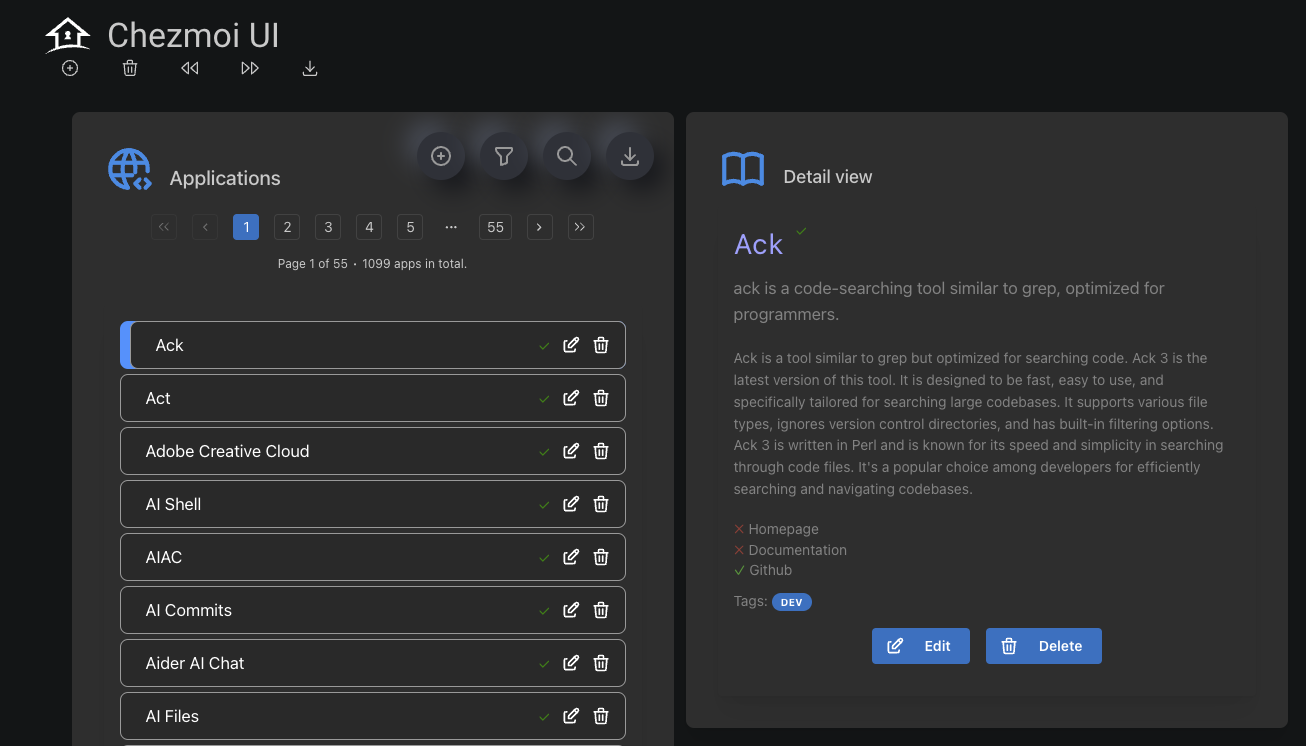
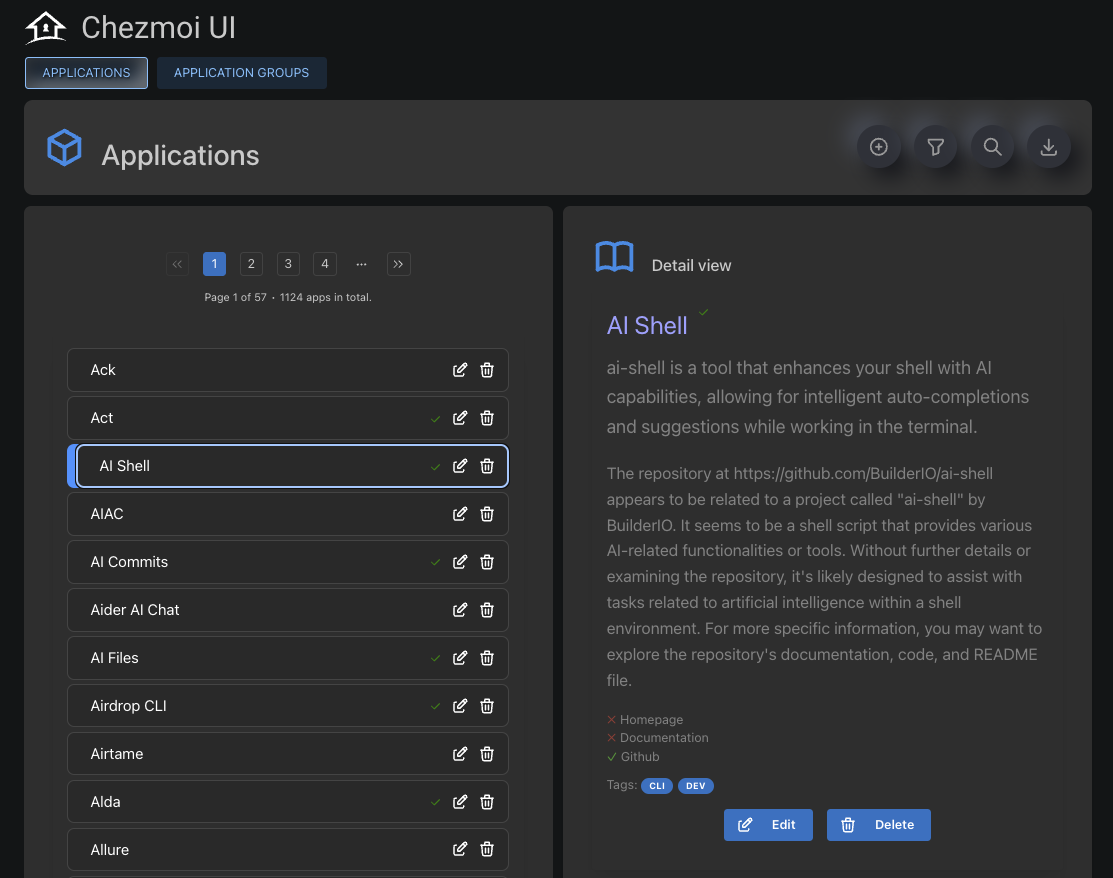
assets Update README screenshots wip

diff --git a/client/src/views/EditView/EditView.jsx b/client/src/views/EditView/EditView.jsx
@@ -35,7 +35,6 @@ const EditView = forwardRef(function EditView(props, ref) {
 			radius="10"
 			size="auto"
 			shadow="xl"
-			fullScreen
 			transitionProps={{ transition: "pop", duration: 200 }}
 		>
 			<Card style={{ backgroundColor: "#222" }}>

diff --git a/README.md b/README.md
@@ -92,28 +92,44 @@ It's up to you how you value the metadata though: Functionally there is no need 
 
 ## The UI
 
-After first starting Chezmoi UI, the backend takes a moment to seed the database, but it should be done by the time you've opened a browser. Opening `http://localhost:8000` you should see the below. Note the keyboard shortcuts listed in the right hand column - it's a good idea to learn them. A check mark in the list view means the item has been edited, giving a hint of the work left to do
+After first starting Chezmoi UI, the backend takes a moment to seed the database, but it should be done by the time you've opened a browser. Opening `http://localhost:8000` you should see the view below. Note the keyboard shortcuts listed in the right hand column - it's a good idea to learn them. A check mark in the list view means the item has been edited, giving a hint of the work left to do.
 
 ![](./assets/start.png)
 
-Selecting an app in the list, you should see the detail view. It shows the name, the short description and the longer description of the app. Iconography indicates if any of the homepage, Github and documentation URLs are missing, as well as the tags associated with the app.  Hitting the Edit button opens the edit view.
+
+Selecting an app in the list, you should see the detail view. It shows the name, the short description and the longer description of the app. Click the app title to open its homepage/Github page in a new window. Iconography indicates if any of the homepage, Github and documentation URLs are missing, as well as the tags associated with the app.  Hitting the Edit button opens the edit view.
 
 ![](./assets/app-selection.png)
 
-Edit view: Only name, key (must be unique) and homepage are mandatory - (specified as `NOT_NULL` on database table level). The rest is opt-in and depends largely on your needs and preferences. But this is what makes the data model compatible with Install.Doctor - it tracks their model, since they provide the source document that started this whole thing. I haven't tested it, but in theory the output from Chezmoi UI should plug right into Install.Doctor. The tags are my addition, and they add another dimension of filtering that might be useful depending on your range of environments.
 
-![](./assets/edit-view.png)
+Edit view: Only name, key (must be unique) and homepage are mandatory - (`NOT_NULL` on database table level). The rest is opt-in and depends largely on your needs and preferences. But this is what makes the data model compatible with Install.Doctor - it tracks their model, since they provide the source document that started this whole thing. I haven't tested it, but in theory the output from Chezmoi UI should plug right into Install.Doctor. The tags are my addition, and they add another dimension of filtering that might be useful depending on your range of environments.
 
-### Menu menu
+![](./assets/app-edit.png)
+
+
+
+### Main menu
 
 1. Add a new application to the list
-   ![](./assets/menu-add-new-app.png)
+   ![](./assets/menu-1.png)
 2. Open the filter menu
-   ![](./assets/menu-open-filter-menu.png)
+   ![](./assets/menu-2.png)
 3. Search for an app
-   ![](./assets/menu-free-text.png)
+   ![](./assets/menu-3.png)
 4. Export YAML file
-   ![](./assets/menu-yaml-export.png)
+   ![](./assets/menu-4.png)
+
+
+
+### Groups
+
+This is only relevant If you're an Install.Doctor user, then you might want to edit the way the applications are grouped by type. The Group view enables this, but you can also assign an application to a group in the Application edit view.
+![](./assets/start - groups.png)
+
+Selecting a group opens the edit view, where yu can move apps in and out of the group.
+![](./assets/group-edit.png)
+
+
 
 
 
